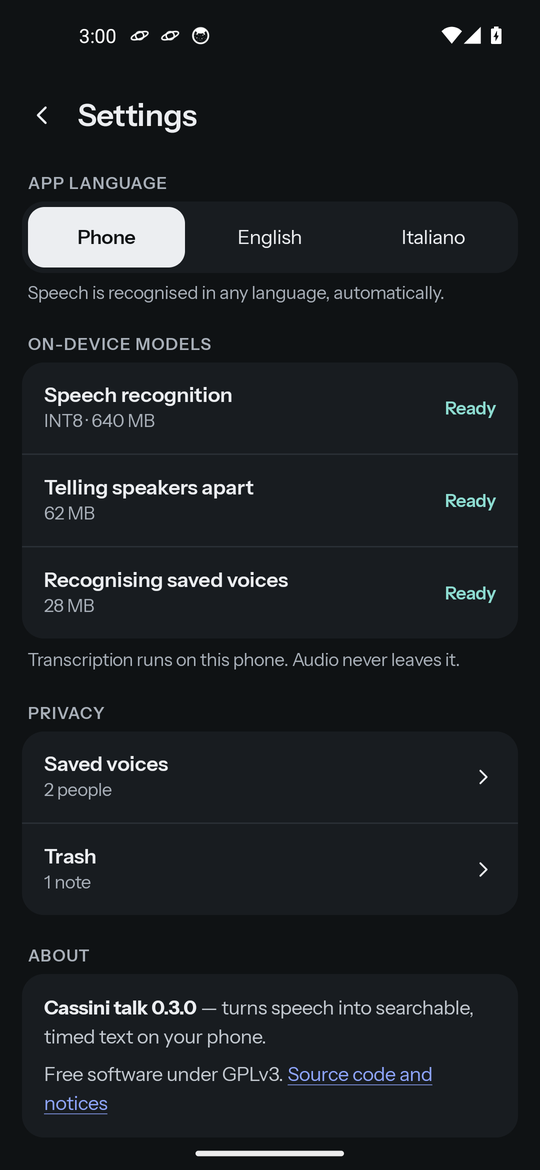
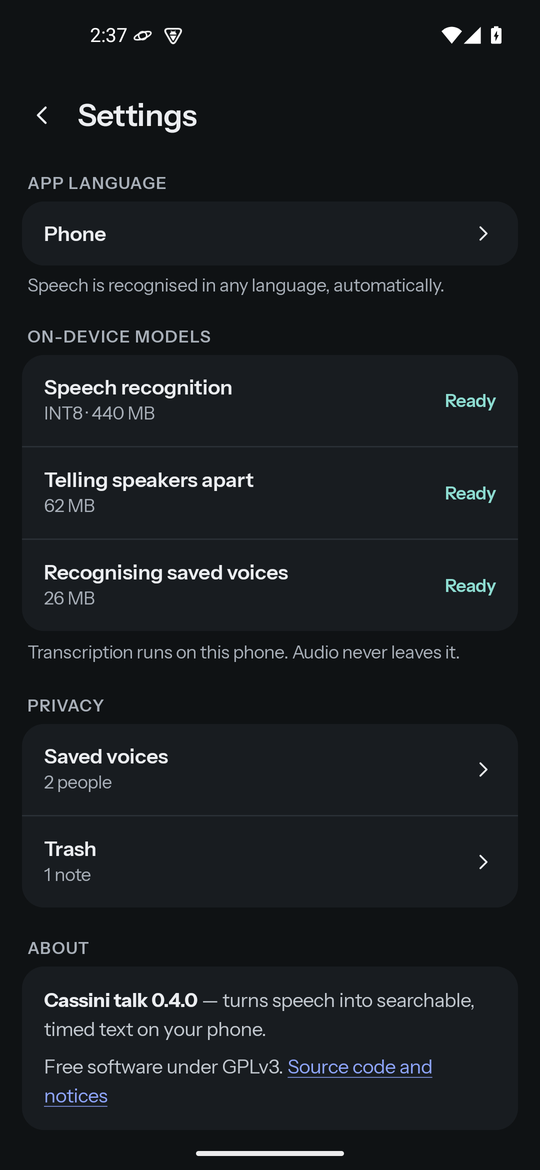
Take the Settings screenshots again for 0.4.0
The About card reads "Cassini talk 0.4.0" in the light and dark README
screenshots and in the store image 5.png of en-US, fr-FR and pt-BR.
fr-FR and pt-BR were still on 0.3.0 and the old language row. Taken
with the acceptance walk (--part models) on a local API 35 arm64
emulator, Pixel 5 profile, then 540 px wide with Pillow and optipng
-o5 -strip all.

That image cuts the status bar of UiAutomation screenshots in half
unless the display has a cutout; development.md now says to turn on the
emulated hole cutout first.

diff --git a/docs/development.md b/docs/development.md
@@ -336,7 +336,7 @@ To find Storage almost full, the test sets the free space to the floor of the re
 
 The screenshots in the README come from this walk. To make them again, use these steps:
 
-1. Do the walk for the light and dark variants with `--part models`.
+1. Do the walk for the light and dark variants with `--part models`. Use the Pixel 5 profile (1080 × 2340). On an emulator without a display cutout, first turn on the emulated one with `adb shell cmd overlay enable com.android.internal.display.cutout.emulation.hole`. Without it, the screenshots of the API 35 arm64 image cut the status bar in half.
 2. Select these screenshots of each variant: `00-library`, `03-read-and-listen`, `02-transcribing`, `04-name-a-speaker` and `08-settings`.
 3. Make sure that they show only the FLEURS clip and the test names.
 4. Make them 540 pixels wide with Pillow, and make the files smaller with `optipng -o5 -strip all`.
